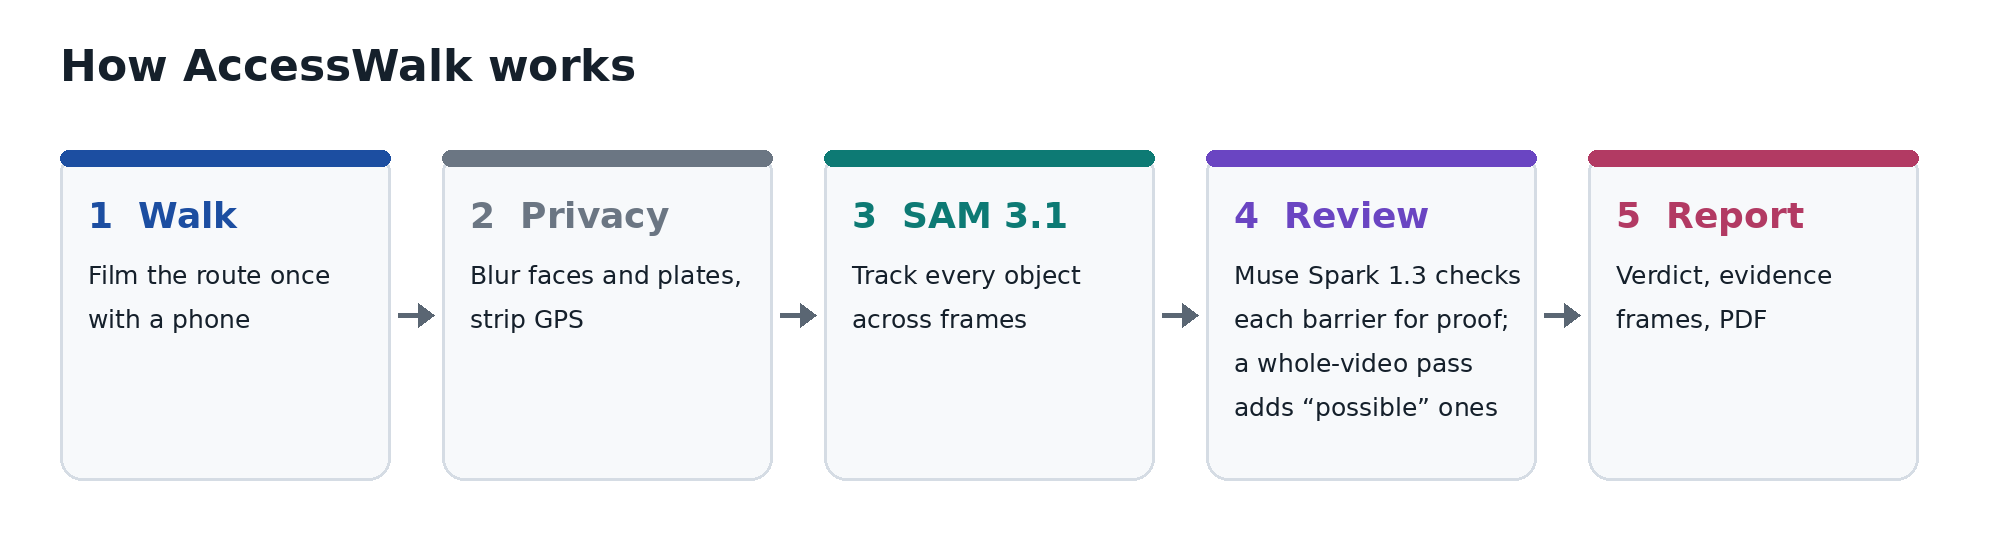
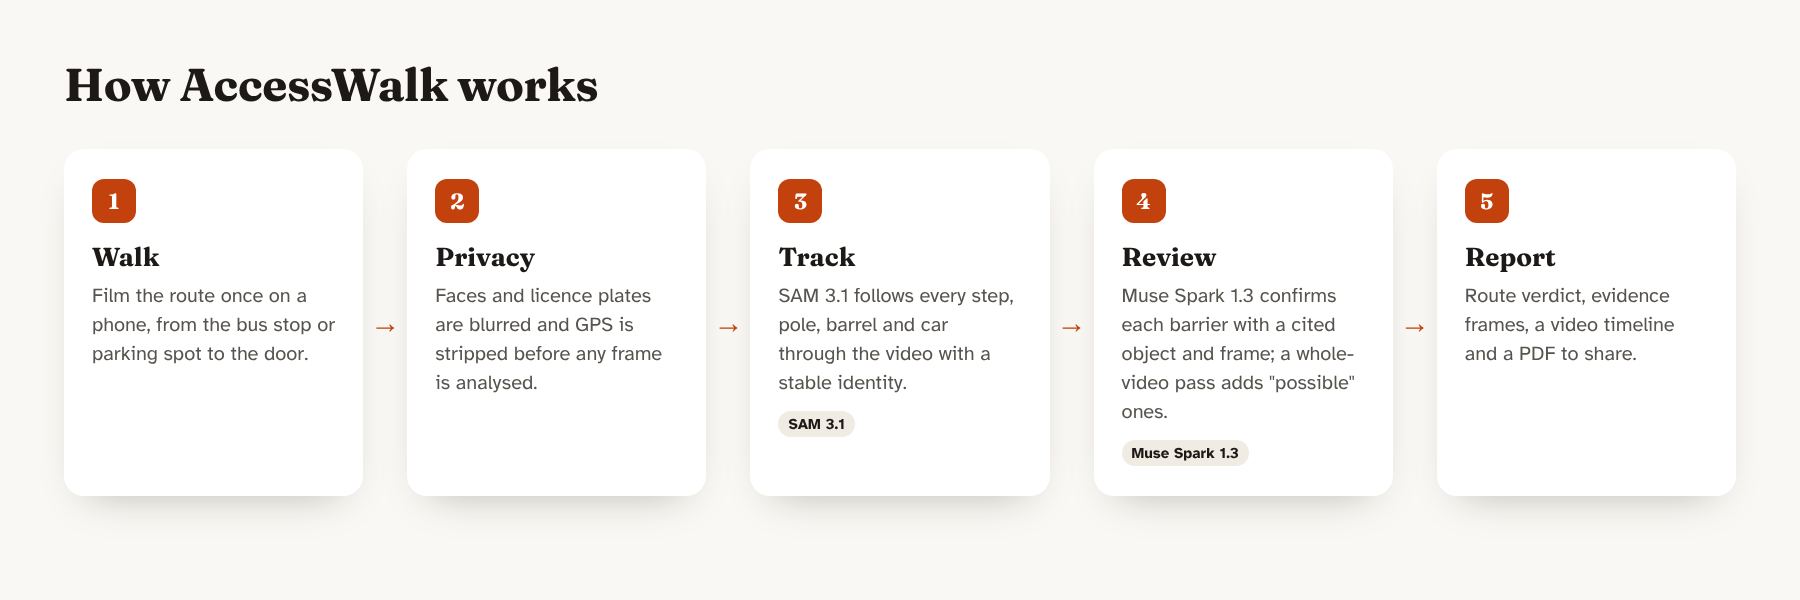
README: three hero GIFs, warm cards, report screenshot, links, license and acknowledgements
Hero row of three blurred walkthroughs with captions; new pipeline and results
cards; the SAM/report table becomes "What the report shows" with the steps
finding on the redesigned report. External projects are linked on first mention
(every link checked). LICENSE (MIT) for the code; docs/media/ and the annotations
under CC BY 4.0; YuNet (MIT) and the fonts (SIL OFL 1.1) keep their licenses.
PROGRESS: d10-visual-redesign, d10-readme-polish, d10-license.

diff --git a/README.md b/README.md
@@ -2,9 +2,15 @@
 
 **Know before you go.** Film the walk from the bus stop or parking spot to the entrance on a phone.
 AccessWalk turns that video into an accessibility report for wheelchair users: the barriers along the
-route, each tied to an object SAM 3.1 tracked and the video frame it was seen in.
+route, each tied to an object [SAM 3.1](https://dev.meta.ai/docs/sam/overview) tracked and the video frame it was seen in.
 
-<p align="center"><img src="docs/media/hero.gif" alt="Walking a sidewalk with a traffic barrel on it; SAM 3.1 boxes follow the barrels, a pole and the vegetation with stable ids" width="300"></p>
+<table align="center">
+  <tr>
+    <td align="center" width="32%"><img src="docs/media/hero-barrels.gif" alt="Walking toward traffic barrels standing on the sidewalk; SAM 3.1 boxes follow each barrel, a pole and the vegetation with stable ids" width="100%"><br><sub>Barrels on the walk</sub></td>
+    <td align="center" width="32%"><img src="docs/media/hero-steps.gif" alt="Walking up to a flight of seven concrete steps; SAM 3.1 tracks them as stairs #0" width="100%"><br><sub>7 steps, no ramp</sub></td>
+    <td align="center" width="32%"><img src="docs/media/hero-slab.gif" alt="Heaved sidewalk slabs beside a tree trunk; SAM 3.1 tracks them as raised slab #0 to #4" width="100%"><br><sub>Heaved slabs by a tree</sub></td>
+  </tr>
+</table>
 
 **Live:** https://rafi-tahmid--accesswalk-web.us-east.modal.run (open "Try a sample route").
 Built solo for the Meta Global AI Developer Hackathon (indie track).
@@ -26,26 +32,20 @@ It is a screening tool for planning a trip or an audit. It does not certify ADA 
 not real-time navigation. Anything judged from depth, height or slope in a phone video is marked
 `verify_manually`.
 
-<table>
-  <tr>
-    <th width="50%">What SAM tracks</th>
-    <th width="50%">What the report says</th>
-  </tr>
-  <tr>
-    <td align="center">
-      <img src="docs/media/sam-tracks-steps.gif" alt="SAM 3.1 tracks a flight of concrete steps as stairs #0 while walking up to a house" width="200">
-      <img src="docs/media/sam-tracks-slab.gif" alt="SAM 3.1 tracks heaved sidewalk slabs next to a tree as raised slab #0 to #4" width="200">
-    </td>
-    <td><img src="docs/media/report-finding.png" alt="The report's finding for the steps: steps without a ramp, high severity, cited to track stairs-0 on frame 60 with the box over the frame" width="420"></td>
-  </tr>
-</table>
+## What the report shows
+
+<p align="center"><img src="docs/media/report-finding.png" alt="A confirmed finding from the demo report: concrete steps to a brick house entrance with no ramp in view, high severity, verify manually, cited to track stairs-0 on frame 60, with the stairs boxed on the frame" width="100%"></p>
+
+The demo route's steps finding: what was found, how sure, the ADA reference it is based on, and the
+tracked object (`stairs-0`) and frame it cites, with the box drawn on that frame.
 
 ## How it works
 
 <p align="center"><img src="docs/media/pipeline.png" alt="How AccessWalk works: walk, privacy blur, SAM 3.1 tracking, review with Muse Spark 1.3, report" width="860"></p>
 
 1. **Upload** a 15 s to 2 min walkthrough (`.mp4`/`.mov` from a phone, held upright).
-2. **Privacy first, locally:** faces are detected and blurred on every source frame (OpenCV YuNet)
+2. **Privacy first, locally:** faces are detected and blurred on every source frame
+   ([OpenCV YuNet](https://github.com/opencv/opencv_zoo/tree/main/models/face_detection_yunet))
    before any frame leaves the machine. GPS and all other metadata are stripped from every derived
    file. License plates are blurred in everything published, using SAM's own `license plate` tracks.
 3. **Track:** SAM 3.1 segments and tracks 14 noun phrases across the clip (bins, cars, poles,
@@ -53,7 +53,7 @@ not real-time navigation. Anything judged from depth, height or slope in a phone
    handrails, doorknobs, vegetation, plates). Each object keeps one identity across frames.
 4. **Inventory:** tracks are stitched, de-duplicated across phrases, given a best keyframe, and
    measured against the sidewalk mask (how much of an object stands on the walkway).
-5. **Verify (agent):** a Muse Spark 1.3 agent reviews the inventory against 8 rule-based checks, with
+5. **Verify (agent):** a [Muse Spark 1.3](https://dev.meta.ai/docs/models) agent reviews the inventory against 8 rule-based checks, with
    tools to read a track, look at frames, re-run SAM with a new phrase on a time window, and cite a
    finding. A finding without a valid track and frame citation is dropped.
 6. **Second look (video pass):** Muse Spark 1.3 also watches the blurred video once. Barriers it sees
@@ -100,19 +100,20 @@ flowchart LR
 | Review stage (two-tier and the other evaluated systems) | `backend/accesswalk/review.py`, `combine.py`, `grounded.py` |
 | Rules and citation validator | `backend/accesswalk/rules.yaml`, `validator.py` |
 | Route verdict | `backend/accesswalk/verdict.py` |
-| API (upload, job status, reports, media) | `backend/accesswalk/api.py`, `jobs.py` |
+| API ([FastAPI](https://fastapi.tiangolo.com): upload, job status, reports, media) | `backend/accesswalk/api.py`, `jobs.py` |
 | Report contract (pydantic → JSON Schema) | `backend/accesswalk/schemas.py`, `frontend/src/schema/` |
-| Report UI | `frontend/` (React + Vite) |
+| Report UI | `frontend/` ([React](https://react.dev) + [Vite](https://vite.dev)) |
 | Eval harness and baseline | `eval/`, `backend/accesswalk/scoring.py`, `baseline.py` |
 | Deploy | `deploy/modal_app.py`, `scripts/deploy_bundle.py` |
 
 ### Meta AI tooling
-- **SAM 3.1** (Meta Model API): video tracking with stable object identity, which is what makes
+- **SAM 3.1** ([Meta Model API](https://dev.meta.ai/docs/overview)): video tracking with stable object identity, which is what makes
   route-level reasoning possible (one bin seen across 40 frames is one bin).
 - **Muse Spark 1.3** (Meta Model API): the verification agent (tool calls over the tracks and frames)
   and the video pass that adds "possible" findings. Every model call logs the provider and the model
   that served it.
-- **Muse Spark Open** (open weights on Baseten, Fireworks as failover): the same agent runs on it with
+- **[Muse Spark Open](https://dev.meta.ai/docs/muse-spark-open)** (open weights on
+  [Baseten](https://www.baseten.co), [Fireworks AI](https://fireworks.ai) as failover): the same agent runs on it with
   `ACCESSWALK_REVIEW=open`; it was the first shipped version and is in the eval table.
 
 ## Evaluation
@@ -210,7 +211,7 @@ on the upload page opens its finished report with no upload at all (`VITE_SAMPLE
 ## Deploy (Modal)
 Live: https://rafi-tahmid--accesswalk-web.us-east.modal.run (sample route and reports; uploads need the passcode).
 
-One Modal app serves the API and the built UI on one URL, on CPU only, scaling to zero. It is public
+One [Modal](https://modal.com) app serves the API and the built UI on one URL, on CPU only, scaling to zero. It is public
 and read-only: sample route, reports, blurred media. Uploads need a passcode, and they stop once the
 spend caps are used ($1 per job, $5 a day, $10 in total). The data volume holds blurred media and
 model caches only: no raw video, no `sam.mp4`, no face-only proxy.
@@ -243,3 +244,46 @@ Oct 28, 2026 (see `git log`), with no imported code. The day-by-day task list an
 `PROGRESS.md`; the working rules are in `CLAUDE.md`. Code was written with Claude Code (pipeline and
 frontend as two parallel sessions). The videos were filmed for this project; raw footage, audio and
 unblurred frames are never committed.
+
+## License
+- **Code:** MIT, see [`LICENSE`](LICENSE). Copyright 2026 Tahmid Rafi.
+- **Media and labels:** the footage-derived media in `docs/media/` (blurred GIFs, report screenshot,
+  cards) and the annotations in `data/annotations/` are under
+  [CC BY 4.0](https://creativecommons.org/licenses/by/4.0/).
+- **Third-party parts keep their own licenses:**
+  - The YuNet face-detection model (`face_detection_yunet_2023mar.onnx`, downloaded into `models/`,
+    not committed) is MIT, Copyright (c) 2020 Shiqi Yu
+    ([license](https://github.com/opencv/opencv_zoo/blob/main/models/face_detection_yunet/LICENSE)).
+  - The UI fonts, installed through [Fontsource](https://fontsource.org), are under the
+    [SIL Open Font License 1.1](https://openfontlicense.org):
+    [Fraunces](https://github.com/undercasetype/Fraunces) (Copyright 2020 The Fraunces Project
+    Authors) and [Atkinson Hyperlegible](https://www.brailleinstitute.org/freefont/) (Copyright 2020
+    Braille Institute of America, Inc.).
+
+## Acknowledgements and references
+- **Meta models and API:** [SAM 3.1](https://dev.meta.ai/docs/sam/overview) for video segmentation and
+  tracking, [Muse Spark 1.3](https://dev.meta.ai/docs/models) for review, and
+  [Muse Spark Open](https://dev.meta.ai/docs/muse-spark-open) for the open-weight agent, all through
+  the [Meta Model API](https://dev.meta.ai/docs/overview). Meta's
+  [`meta-sam-parser`](https://pypi.org/project/meta-sam-parser/) decodes SAM masks.
+- **Hosting credits:** [Baseten](https://www.baseten.co) and [Fireworks AI](https://fireworks.ai)
+  (Muse Spark Open inference) and [Modal](https://modal.com) (the deployed app), through the
+  hackathon's partner credits.
+- **Face blur:** [OpenCV](https://github.com/opencv/opencv) and the
+  [YuNet](https://github.com/opencv/opencv_zoo/tree/main/models/face_detection_yunet) model from
+  opencv_zoo.
+- **Accessibility references:** the checks in `backend/accesswalk/rules.yaml` cite the
+  [2010 ADA Standards for Accessible Design](https://www.ada.gov/law-and-regs/design-standards/2010-stds/)
+  (206.2, 303.2-303.4, 309.4, 403.5.1, 404.2.7, 405, 405.8, 406, 505 and 705), 28 CFR 35.151(i) on curb ramps,
+  and the U.S. Access Board's [2023 PROWAG](https://www.access-board.gov/prowag/) (R302, R302.3). Every
+  reference is shown as context for screening, not as a compliance finding.
+- **Open-source libraries:** backend: [FastAPI](https://fastapi.tiangolo.com),
+  [Uvicorn](https://uvicorn.dev), [Pydantic](https://pydantic.dev),
+  [OpenAI Python SDK](https://github.com/openai/openai-python) (for the OpenAI-compatible endpoints),
+  [HTTPX](https://www.python-httpx.org), [NumPy](https://numpy.org), [pandas](https://pandas.pydata.org),
+  [Pillow](https://python-pillow.org), [PyYAML](https://pyyaml.org), ffmpeg; tests and lint:
+  [pytest](https://docs.pytest.org), [Ruff](https://docs.astral.sh/ruff/). Frontend:
+  [React](https://react.dev), [Vite](https://vite.dev), [Vitest](https://vitest.dev),
+  [Oxlint](https://oxc.rs), [Ajv](https://ajv.js.org),
+  [json-schema-to-typescript](https://github.com/bcherny/json-schema-to-typescript),
+  [Fontsource](https://fontsource.org).

diff --git a/PROGRESS.md b/PROGRESS.md
@@ -89,6 +89,9 @@ Task list for Claude Code sessions. IDs match the owner's tracker: never rename 
 - [x] `d10-readme-media` README for visuals: docs/media/ and four slots at the top (hero GIF, how-it-works image, results card, SAM-tracks / report two-column row); text rewritten as what it does / how it works / results (Docs, A) -- owner's renders from data/out/showcase/final/ (blurred proxy) copied; report-finding.png is a headless-Chromium screenshot of the pinned demo report; landing hero.mp4 served at /media/showcase/hero.mp4 and staged in the bundle
 - [x] `d10-merge-b` Merge Session B's final branch, rebuild frontend/dist, re-stage the deploy bundle, hand over deploy commands (Demo, A) -- 2f3af41; dist built with the sample pin; bundle 107.4 MB
 - [x] `d10-footer-label` Upload page footer said "(open-weight review agent)" next to health.agent_model (now muse-spark-1.3 via meta) (Frontend, B) -- b5e0459, merged b8d9ddc: "(review agent)", "open-weight" only on Baseten/Fireworks
+- [x] `d10-visual-redesign` Warm editorial look for landing, report, upload/job and PDF (Fontsource Fraunces + Atkinson Hyperlegible) (Frontend, B) -- 9b1379f, merged de1ec84; review screenshots in data/out/showcase/review/
+- [x] `d10-readme-polish` README: three hero GIFs with captions, warm-palette pipeline/results cards, "What the report shows" screenshot on the new design, links to every external project (each checked), acknowledgements and references (Docs, A)
+- [x] `d10-license` LICENSE (MIT, code); README License section: docs/media/ and data/annotations/ under CC BY 4.0, YuNet MIT, fonts SIL OFL 1.1 (Docs, A)
 - [ ] `d10-fixes` Final fixes (Pipeline)
 - [ ] `d10-submit` Submit by 5 PM CT (deadline 8 PM CT) (Demo, You)
 - [ ] `d10-postx` Post the demo on X (Most Viral, engagement through Nov 8) (Demo, You)
@@ -193,3 +196,4 @@ baseline 67%. Gaps of 1-2 barriers are within run-to-run noise at n=15.
 - 2026-11-04 (Session A2): d10-readme-media done. docs/media/: hero.gif, pipeline.png, results.png, sam-tracks-steps.gif, sam-tracks-slab.gif (owner renders, checked frame by frame: no face, plate or house number readable) and report-finding.png (local frontend/dist + API, headless Chromium over CDP, #finding-f3; no model calls). README slots uncommented; rendered locally, all 6 images load from relative paths. API: GET /media/showcase/<name> (fixed pattern, <media_root>/showcase/) for Session B's landing hero; data/cache/showcase/hero.mp4 placed; deploy_bundle stages it. Backend 157 tests, ruff clean. Waiting on Session B's branch (d10-merge-b).
 - 2026-11-04 (Session A2): d10-merge-b. Merged Session B3 eee0826 (d10-tier-badge, landing hero) as 2f3af41; frontend 73 tests (3 skipped), tsc and oxlint pass; backend 157, ruff clean. /api/health now reports the review stage's model (meta / muse-spark-1.3 for two-tier; baseten for ACCESSWALK_REVIEW=open) instead of always Baseten. dist rebuilt with VITE_SAMPLE_REPORT_ID=1d1f644433dc-20261104T060929 (--mode http) and smoke-tested locally (health, hero 206, landing, confirmed and possible cards); README report-finding.png retaken on the new card design. Bundle re-staged (107.4 MB, + cache/showcase/hero.mp4 and the old v2 report). Open: footer label (d10-footer-label, asked B3). Not done: volume upload, modal run, modal deploy (owner).
 - 2026-11-04 (Session A2): merged Session B3 b5e0459 (d10-footer-label) as b8d9ddc; frontend 74 tests, tsc, oxlint pass; dist rebuilt with the sample pin; bundle re-staged (unchanged, 107.4 MB). Ready for the owner's volume upload, modal run and modal deploy.
+- 2026-11-04 (Session A2): merged Session B3 9b1379f (d10-visual-redesign) as de1ec84; npm ci for the new @fontsource deps; backend 157, frontend 78 (3 skipped), tsc, oxlint pass; dist rebuilt with the sample pin. Full-page review screenshots (deviceScaleFactor 2) of landing and demo report in data/out/showcase/review/. README: hero is three GIFs from final2/ (old hero.gif and sam-tracks-*.gif removed), new pipeline/results cards, SAM/report table replaced by "What the report shows" (steps finding retaken on the new design; frame 60, no house number or plate readable), links added on first mention and all 33 checked (200); ffmpeg.org, eCFR (bot block) and the hackathon page (no official page found) left as plain text. LICENSE (MIT) + License and Acknowledgements sections. Bundle unchanged: redeploy needs only `modal deploy`. No model calls.

diff --git a/docs/media/README.md b/docs/media/README.md
@@ -1,15 +1,13 @@
 # README media
 
-Images and GIFs used at the top of the main README. **Blurred footage only**: every frame here comes from
-the pipeline's face- and plate-blurred outputs (`proxy.mp4`, rendered `frames/`), never from `data/raw/`
-or anything with a `.raw` name. Strip metadata from anything re-encoded (`-map_metadata -1`).
+Images and GIFs used in the main README. **Blurred footage only**: every frame here comes from the
+pipeline's face- and plate-blurred outputs (`proxy.mp4`, rendered `frames/`), never from `data/raw/` or
+anything with a `.raw` name. Strip metadata from anything re-encoded (`-map_metadata -1`).
+Licensed CC BY 4.0 (see the main README, "License").
 
-| Slot in README | File | What it shows |
+| README section | File | What it shows |
 |---|---|---|
-| 1 · hero | `hero.gif` | Walkthrough with SAM tracking overlay (boxes / masks, stable ids) |
-| 2 · how it works | `pipeline.png` | Pipeline: ingest + blur → SAM 3.1 tracks → inventory → two-tier review → report |
-| 3 · results | `results.png` | Results card: two-tier 79% recall / 97% precision vs 64% / 95% video-only |
-| 4 · left | `sam-tracks-steps.gif`, `sam-tracks-slab.gif` | What SAM tracks: the demo-route steps and a heaved-slab clip, side by side |
-| 4 · right | `report-finding.png` | What the report says about the steps (finding card with its box) |
-
-The slots are wired into `README.md`; `report-finding.png` is a headless-Chromium screenshot of the pinned demo report (finding 3, steps) served locally from `frontend/dist`.
+| Top | `hero-barrels.gif`, `hero-steps.gif`, `hero-slab.gif` | Three walkthroughs with the SAM 3.1 tracking overlay |
+| What the report shows | `report-finding.png` | The demo report's steps finding (frame and card), headless-Chromium screenshot of the local build at deviceScaleFactor 2 |
+| How it works | `pipeline.png` | Pipeline card: walk, privacy, track, review, report |
+| Results | `results.png` | Results card: two-tier 79% recall / 97% precision vs 64% / 95% video-only |
